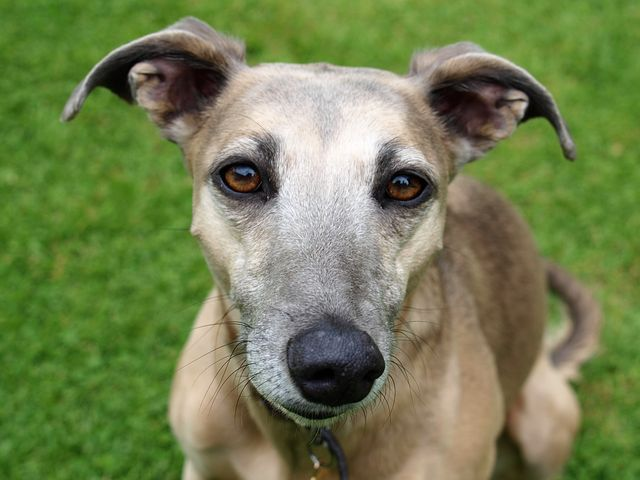
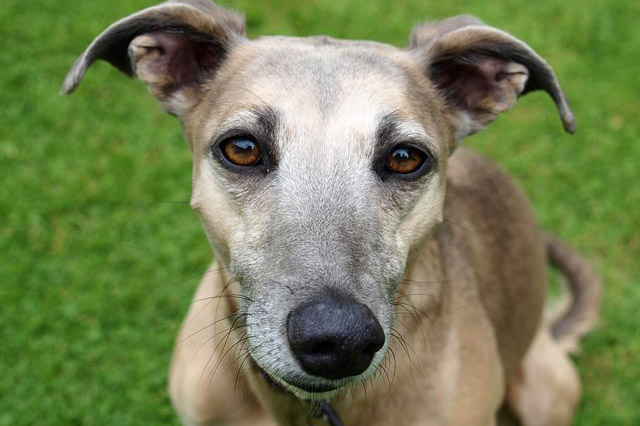
Crop the photos to a uniform size

diff --git a/index.html b/index.html
@@ -28,62 +28,62 @@
       <ul class="list-group list-group-inline push-0 pad-b pad-t-1-2">
         <li class="gutter-1-2"><a class="current" href="index.html">Home</a></li>
         <li class="gutter-1-2"><a class="li" href="rescues.html">Rescues</a></li>
-        <li class="gutter-1-2"><a class="li" href="form.html">Adoption
-          <li class="gutter-1-2"><a class="current" href="form.html">Donate</a></li>
-          <li class="gutter-1-2"><a class="current" href="form.html">Contact</a></li> Form</a></li>
-        </ul>
-      </nav>
-    </header>
+        <li class="gutter-1-2"><a class="li" href="form.html">Adoption</a></li>
+        <li class="gutter-1-2"><a class="li" href="form.html">Donate</a></li>
+        <li class="gutter-1-2"><a class="li" href="form.html">Contact Form</a></li>
+      </ul>
+    </nav>
+  </header>
 
-    <main id="main" role="main" class="grid" tabindex="0">
-      <section class="unit unit-content-distribute xs-1 s-1 m-1 l-1 island-1">
+  <main id="main" role="main" class="grid" tabindex="0">
+    <section class="unit unit-content-distribute xs-1 s-1 m-1 l-1 island-1">
 
-        <h1 class="text-center blue-text">GSNCR Adoption Program</h1>
-        <div class="embed">
-          <a class="hover-box" href="#">
-            <div class="embed embed-3by2">
-              <img class="unit unit-content-distribute xs-1 s-1 m-1 l-1img-flex embed-item iphone-banking-app hover-box-img" src="images/greyhound-11.jpg" alt="banner">
-            </div>
-            <div class="hover-box-caption island-1-4 w-1 absolute">
-              <h2 class="giga push-0 not-bold">Bella, F 5 year old. Available for adoption!</h2>
-            </div>
-          </a>
-        </div>
-        <div class="unit unit-content-distribute xs-1 s-1 m-1 l-1 island wrapper">
-          <p>GS-NCR began its Greyhound Adoption initiative in 2009 in response to an increasing demand from interested individuals & families in the National Capital Region. Having assisted with Greyhound placements in Ottawa homes on behalf of the adoption group in Montreal, it became apparent that the usually long wait for the eventual arrival of an adopted greyhound by interested families in Ottawa could be significantly shortened with the cooperation of and affiliation with a greyhound adoption kennel geographically closer to Ottawa than a kennel located in the warmer Southern United States.</p>
-
-          <p>Consequently, with the establishment of an agreement and placement strategy with (NGA) Northern Greyhound Adoption, Vermont, USA, similar to the one established by the Montreal adoption group - The League of Extraordinary Greyhounds (T-LEGS), GS-NCR has been able to identify, evaluate and place retired racing greyhounds in "forever homes" here in the National Capital Region. The agreement with NGA includes a process of selection that fosters a close working relationship of GS-NCR representatives and NGA Kennel staff to actively work with the adoptive family in evaluating and selecting their retired racer.</p>
-
-          <p>The kennel is located in northern Vermont, is less than a four hour drive from Ottawa, through scenic Ontario or Quebec, as well as northern New Your and Vermont country sides. Given its reasonably close proximity to Ottawa, it is accessible throughout the year subject to sympathetic weather conditions.</p>
-
-          <p>If you are thinking of adopting a greyhound and would like to work with the Greyhound Supporters in finding your new canine companion, please review the Adoption-related links on the left-hand side of this page and don't hesitate to contact us with any questions you may have.</p>
-        </div>
-      </section>
-
-      <div class="unit xs-1 s-1 m-1-2 l-1-4 island-1-2 center-flow unit-content-center unit-content-distribute push link-card icon-link card center-block">
-        <div class="blog-photo">
-          <img class="img-flex" src="images/blog.jpg" alt="rescue blog">
-        </div>
-        <h2 class="pad-t">Blog Of The Week</h2>
-        <p class="gutter pad-b">Meet Molly! She's a sweet, 4 year old grey hound with a big personality.</p>
-        <div class="pad-b">
-          <a class="text-center btn bold" href="sign-up.html">Read More</a>
-        </div>
+      <h1 class="text-center blue-text">GSNCR Adoption Program</h1>
+      <div class="embed">
+        <a class="hover-box" href="#">
+          <div class="embed embed-3by2">
+            <img class="unit unit-content-distribute xs-1 s-1 m-1 l-1img-flex embed-item iphone-banking-app hover-box-img" src="images/greyhound-11.jpg" alt="banner">
+          </div>
+          <div class="hover-box-caption island-1-4 w-1 absolute">
+            <h2 class="giga push-0 not-bold">Bella, F 5 year old. Available for adoption!</h2>
+          </div>
+        </a>
       </div>
+      <div class="unit unit-content-distribute xs-1 s-1 m-1 l-1 island wrapper">
+        <p>GS-NCR began its Greyhound Adoption initiative in 2009 in response to an increasing demand from interested individuals & families in the National Capital Region. Having assisted with Greyhound placements in Ottawa homes on behalf of the adoption group in Montreal, it became apparent that the usually long wait for the eventual arrival of an adopted greyhound by interested families in Ottawa could be significantly shortened with the cooperation of and affiliation with a greyhound adoption kennel geographically closer to Ottawa than a kennel located in the warmer Southern United States.</p>
 
-    </main>
+        <p>Consequently, with the establishment of an agreement and placement strategy with (NGA) Northern Greyhound Adoption, Vermont, USA, similar to the one established by the Montreal adoption group - The League of Extraordinary Greyhounds (T-LEGS), GS-NCR has been able to identify, evaluate and place retired racing greyhounds in "forever homes" here in the National Capital Region. The agreement with NGA includes a process of selection that fosters a close working relationship of GS-NCR representatives and NGA Kennel staff to actively work with the adoptive family in evaluating and selecting their retired racer.</p>
 
-    <footer role="contentinfo" class="footer pad-t-1-2 pad-b-1-2 wrapper text-center">
-      <p class="white-text">Follow us on social media!</p>
-      <i class="icon i-32">
-        <img class="img-flex" src="images/instagram-logo.png" alt="instagram-logo">
-      </i>
-      <i class="icon i-32">
-        <img class="img-flex" src="images/facebook-logo.png" alt="facebook-logo">
-      </i>
-      <div class="pad-t-1-2">
-        <small class="micro white-text pad-t-2">© 2018 GSNCR Inc. All rights reserved</small>
+        <p>The kennel is located in northern Vermont, is less than a four hour drive from Ottawa, through scenic Ontario or Quebec, as well as northern New Your and Vermont country sides. Given its reasonably close proximity to Ottawa, it is accessible throughout the year subject to sympathetic weather conditions.</p>
+
+        <p>If you are thinking of adopting a greyhound and would like to work with the Greyhound Supporters in finding your new canine companion, please review the Adoption-related links on the left-hand side of this page and don't hesitate to contact us with any questions you may have.</p>
       </div>
-    </footer>
-  </body>
-  </html>
+    </section>
+
+    <div class="unit xs-1 s-1 m-1-2 l-1-4 island-1-2 center-flow unit-content-center unit-content-distribute push link-card icon-link card center-block">
+      <div class="blog-photo">
+        <img class="img-flex" src="images/blog.jpg" alt="rescue blog">
+      </div>
+      <h2 class="pad-t">Blog Of The Week</h2>
+      <p class="gutter pad-b">Meet Molly! She's a sweet, 4 year old grey hound with a big personality.</p>
+      <div class="pad-b">
+        <a class="text-center btn bold" href="sign-up.html">Read More</a>
+      </div>
+    </div>
+
+  </main>
+
+  <footer role="contentinfo" class="footer pad-t-1-2 pad-b-1-2 wrapper text-center">
+    <p class="white-text">Follow us on social media!</p>
+    <i class="icon i-32">
+      <img class="img-flex" src="images/instagram-logo.png" alt="instagram-logo">
+    </i>
+    <i class="icon i-32">
+      <img class="img-flex" src="images/facebook-logo.png" alt="facebook-logo">
+    </i>
+    <div class="pad-t-1-2">
+      <small class="micro white-text pad-t-2">© 2018 GSNCR Inc. All rights reserved</small>
+    </div>
+  </footer>
+</body>
+</html>

diff --git a/rescues.html b/rescues.html
@@ -30,18 +30,18 @@
         <li class="gutter-1-2"><a class="li" href="index.html">Home</a></li>
         <li class="gutter-1-2"><a class="current" href="rescues.html">Rescues</a></li>
         <li class="gutter-1-2"><a class="li" href="form.html">Adoption Form</a></li>
-        <li class="gutter-1-2"><a class="current" href="form.html">Donate</a></li>
-        <li class="gutter-1-2"><a class="current" href="form.html">Contact</a></li>
+        <li class="gutter-1-2"><a class="li" href="form.html">Donate</a></li>
+        <li class="gutter-1-2"><a class="li" href="form.html">Contact</a></li>
       </ul>
     </nav>
   </header>
 
-  <main id="main" role="main" class="green-background grid center-content" tabindex="0">
-    <section class="unit unit-content-distribute xs-1 s-1 m-1 l-1 island-1">
-      <h1 class="text-center blue-text">Rescues</h1>
+  <main id="main" role="main" tabindex="0">
+    <section>
+      <h1 class="text-center">Rescues</h1>
     </section>
 
-    <ul>
+    <ul class="grid center-content list-group">
       <li class="unit xs-1 s-1 m-1-2 l-1-3 island-1-2 center-flow unit-content-center unit-content-distribute push link-card icon-link card">
         <div class="blog-photo">
           <img class="img-flex" src="images/blog.jpg" alt="rescue blog">
@@ -49,7 +49,7 @@
         <h2 class="pad-t">Molly</h2>
         <p class="gutter pad-b">Meet Molly! She's a sweet, 4 year old grey hound with a big personality.</p>
         <div class="pad-b">
-          <a class="text-center btn bold" href="sign-up.html">Read More</a>
+          <a class="text-center btn bold" href="adopt.html">Read More</a>
         </div>
       </li>
 
@@ -60,7 +60,7 @@
         <h2 class="pad-t">Bubba</h2>
         <p class="gutter pad-b">Meet Bubba! He is a loving bundle of joy waiting to find his forever home.</p>
         <div class="pad-b">
-          <a class="text-center btn bold" href="sign-up.html">Read More</a>
+          <a class="text-center btn bold" href="adopt.html">Read More</a>
         </div>
       </li>
 
@@ -71,7 +71,7 @@
         <h2 class="pad-t">Sabra</h2>
         <p class="gutter pad-b">Meet Sabra! An elegant sweetheart. We promise she will steal your heart.</p>
         <div class="pad-b">
-          <a class="text-center btn bold" href="sign-up.html">Read More</a>
+          <a class="text-center btn bold" href="adopt.html">Read More</a>
         </div>
       </li>
 
@@ -82,7 +82,7 @@
         <h2 class="pad-t">Soda</h2>
         <p class="gutter pad-b">Meet Soda! He is a nugget of happiness and is ready to come home with you!</p>
         <div class="pad-b">
-          <a class="text-center btn bold" href="sign-up.html">Read More</a>
+          <a class="text-center btn bold" href="adopt.html">Read More</a>
         </div>
       </li>
 
@@ -93,7 +93,7 @@
         <h2 class="pad-t">Roxy</h2>
         <p class="gutter pad-b">Meet Roxy! This timid girl will happily warm to her person and spend her life with them.</p>
         <div class="pad-b">
-          <a class="text-center btn bold" href="sign-up.html">Read More</a>
+          <a class="text-center btn bold" href="adopt.html">Read More</a>
         </div>
       </li>
 
@@ -104,7 +104,7 @@
         <h2 class="pad-t">Hubert</h2>
         <p class="gutter pad-b">Meet Hubert! A majestic and one of a kind cutie. Allow him to enchant your life!</p>
         <div class="pad-b">
-          <a class="text-center btn bold" href="sign-up.html">Read More</a>
+          <a class="text-center btn bold" href="adopt.html">Read More</a>
         </div>
       </li>
 
@@ -115,7 +115,7 @@
         <h2 class="pad-t">Melody</h2>
         <p class="gutter pad-b">Meet Melody! She's a sweet, 4 year old grey hound with a big personality.</p>
         <div class="pad-b">
-          <a class="text-center btn bold" href="sign-up.html">Read More</a>
+          <a class="text-center btn bold" href="adopt.html">Read More</a>
         </div>
       </li>
 
@@ -126,7 +126,7 @@
         <h2 class="pad-t">Dingo</h2>
         <p class="gutter pad-b">Meet Dingo! He's the life of the party and is looking for an energetic family to spend the rest of his life with.</p>
         <div class="pad-b">
-          <a class="text-center btn bold" href="sign-up.html">Read More</a>
+          <a class="text-center btn bold" href="adopt.html">Read More</a>
         </div>
       </li>
 
@@ -137,7 +137,7 @@
         <h2 class="pad-t">Bella</h2>
         <p class="gutter pad-b">Meet Bella! She's a sweet, 4 year old grey hound with a big personality.</p>
         <div class="pad-b">
-          <a class="text-center btn bold" href="sign-up.html">Read More</a>
+          <a class="text-center btn bold" href="adopt.html">Read More</a>
         </div>
       </li>
     </ul>

diff --git a/adopt.html b/adopt.html
@@ -30,8 +30,8 @@
         <li class="gutter-1-2"><a class="li" href="index.html">Home</a></li>
         <li class="gutter-1-2"><a class="li" href="rescues.html">Rescues</a></li>
         <li class="gutter-1-2"><a class="current" href="form.html">Adoption Form</a></li>
-        <li class="gutter-1-2"><a class="current" href="form.html">Donate</a></li>
-        <li class="gutter-1-2"><a class="current" href="form.html">Contact</a></li>
+        <li class="gutter-1-2"><a class="li" href="form.html">Donate</a></li>
+        <li class="gutter-1-2"><a class="li" href="form.html">Contact</a></li>
       </ul>
     </nav>
   </header>

diff --git a/css/main.css b/css/main.css
@@ -36,6 +36,11 @@ nav a:hover {
   top: 70px;
 }
 
+.blog-photo {
+  max-width: 300px;
+  width: 100%;
+}
+
 .link-card {
   color: #fff;
   background-color: #0f293e;
